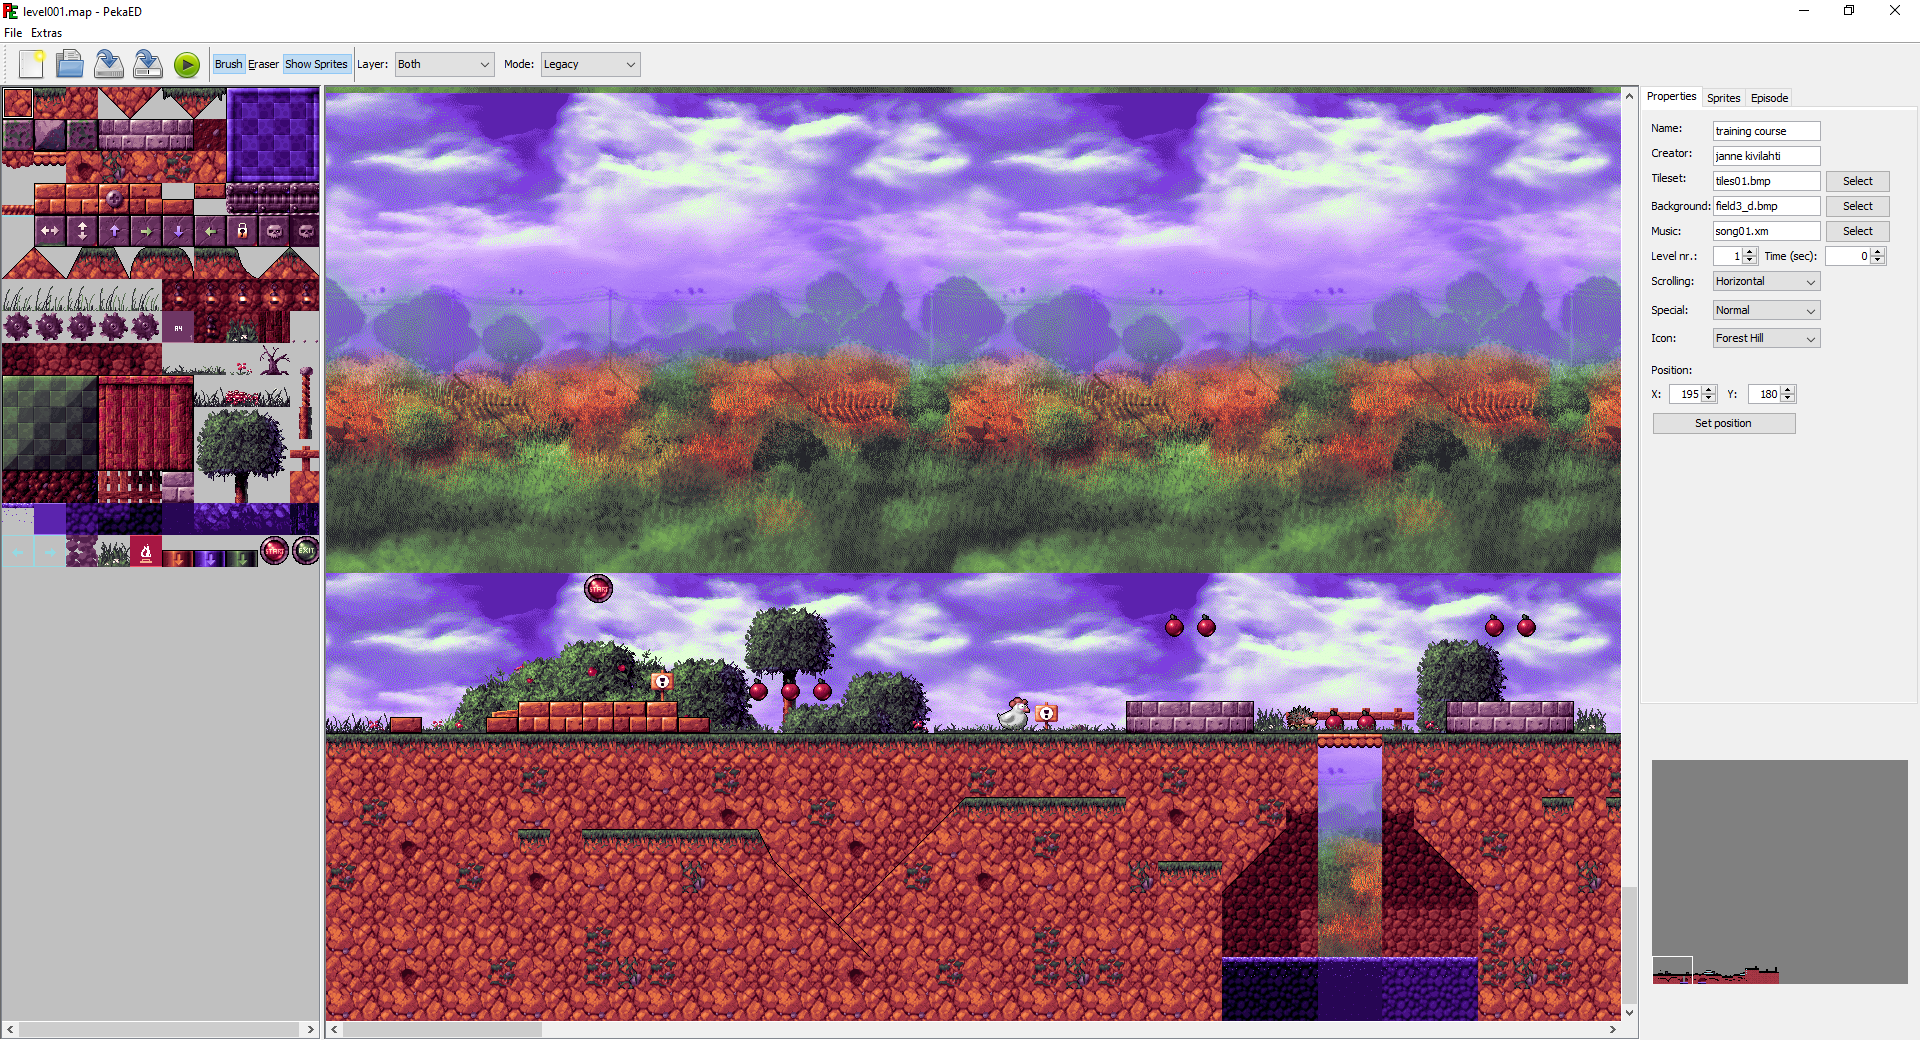
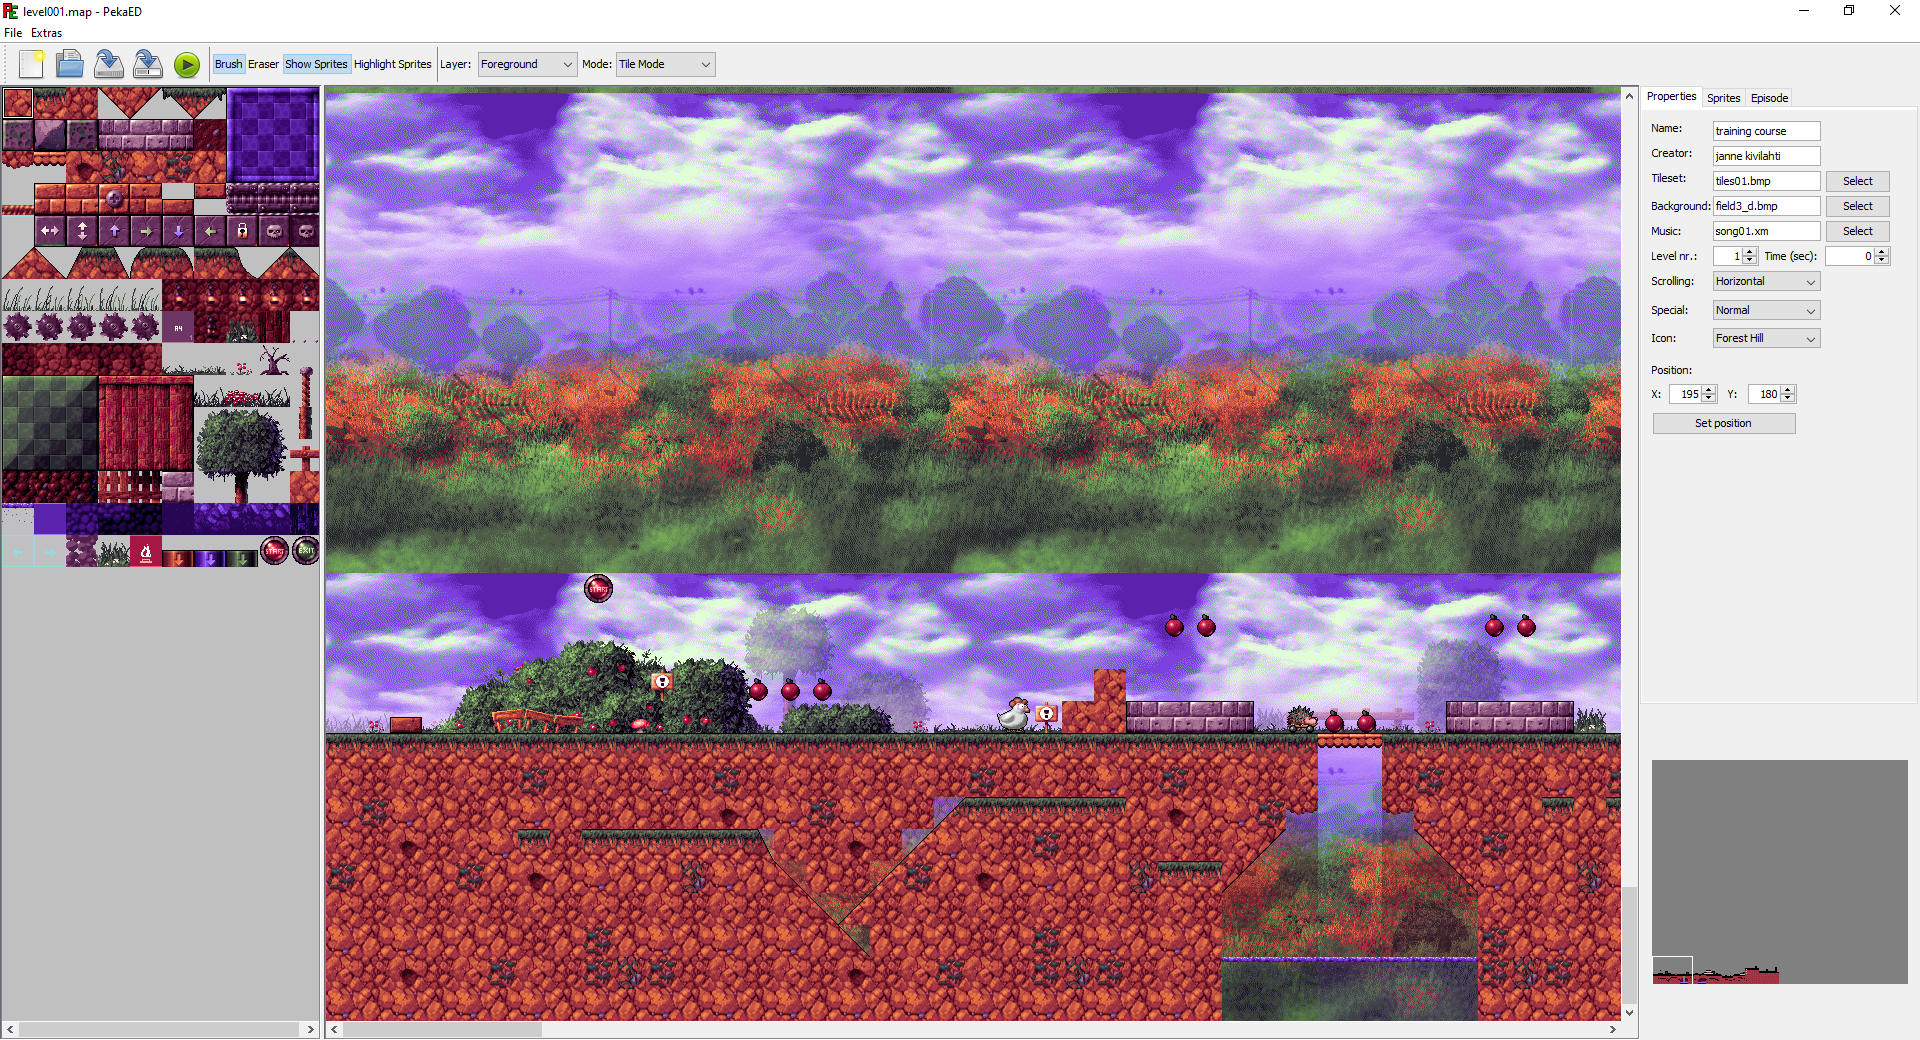
Updated the manual

diff --git a/pekaed/index.html b/pekaed/index.html
@@ -122,8 +122,10 @@
 				<li><a href="#Tools">Tools</a></li>
 				<li><a href="#Layers">Layers</a></li>
 				<li><a href="#Modes">Modes</a></li>
+				<li><a href="#Editing-Modes">Editing modes</a></li>
 				<li><a href="#Episodes">Episodes</a></li>
 				<li><a href="#Testing">Testing your level</a></li>
+				<li><a href="#Highlight-Sprites">Highlight Sprites</a></li>
 			</ol>
 		</div>
 			This editor was created, because the official editor for Pekka Kana 2 doesn't run well on modern operating systems
@@ -177,7 +179,10 @@
 				<td><b>Figure 8:</b> Show or hide the sprites.</td><td><i>Shortcut: S</i></td>
 			</tr>
 			<tr>
-				<td><b>Figure 9:</b> Select the current layer. <span class="seeLink">(See: <a href="#Layers">Layers</a>)</span></td><td><i>Shortcut: 1 - Both</i></td>
+				<td><b>Figure 9:</b> Toggle sprite highlighting.</td><td><i>Shortcut: H</i></td>
+			</tr>
+			<tr>
+				<td><b>Figure 10:</b> Select the current layer. <span class="seeLink">(See: <a href="#Layers">Layers</a>)</span></td><td><i>Shortcut: 1 - Both</i></td>
 			</tr>
 			<tr>
 				<td></td><td><i>Shortcut: 2 - Foreground</i></td>
@@ -186,7 +191,10 @@
 				<td></td><td><i>Shortcut: 3 - Background</i></td>
 			</tr>
 			<tr>
-				<td><b>Figure 10:</b> Select the current mode. <span class="seeLink">(See: <a href="#Modes">Modes</a>)</span></td><td><i>None</i></td>
+				<td><b>Figure 11:</b> Select the current editing mode. <span class="seeLink">(See: <a href="#Editing-Modes">Editing Modes</a>)</span></td><td><i>Shortcut: CTRL + 1 - Tile mode</i></td>
+			</tr>
+			<tr>
+				<td></td><td><i>Shortcut: CTRL + 2 - Sprite mode</i></td>
 			</tr>
 			</table>
 		</p><br />
@@ -309,7 +317,7 @@
 			In the <i>On startup</i> section you can choose what the editor should do on startup.<br />
 			<br />
 			<table style="border: 0; margin: 0 auto;">
-				<tr><td>Load last episode</td><td>Load the last episode that you've worked on. <span class="seeLink">(See: <a href="#Modes">Modes</a>)</span></td></tr>
+				<tr><td>Load last episode</td><td>Load the last episode that you've worked on.</td></tr>
 				<tr><td>Create empty level</td><td>Create an empty level, with the default settings. (Tileset, background, music, etc.)</td></tr>		
 				<tr><td>Enhanced Mode</td><td>Start the editor in Enhanced Mode. <span class="seeLink">(See: <a href="#Modes">Modes</a>)</span></td></tr>				
 				<tr><td>Legacy Mode</td><td>Start the editor in Legacy Mode. <span class="seeLink">(See: <a href="#Modes">Modes</a>)</span></td></tr>				
@@ -355,7 +363,15 @@
 				<tr><td>Enhanced:</td><td>In the enhanced mode you can set the limit yourself. It defaults to 100.</td></tr>
 				<tr><td><br /></td></tr>
 				<tr><td></td><td><b>Note:</b> You have so set the limit to something that your version of the game can support. You can't use a higher limit than that, that's allowed by your version of Pekka Kana 2.</td></tr>
-				<tr><td></td><td><b>Note:</b> PekaED is optimized to work with danilolc's port. Which you can find <a href="https://github.com/danilolc/pk2">here.</a></td></tr>
+				<tr><td></td><td><b>Note:</b> PekaED is optimized to work a specific version. Which you can find <a href="https://github.com/danilolc/pk2">here.</a></td></tr>
+			</table>
+		</p><br />
+		<a name="Editing-Modes"><h2>Editing modes</h2></a><hr />
+		<p>
+			There are two editing modes.<br /><br />
+			<table border="0" style="margin: 0 auto;">
+				<tr><td>Tile Mode</td><td>In this mode you can place, select and delete tiles.</td></tr>
+				<tr><td>Sprite Mode</td><td>In this mode you can place, select and delete sprites.</td></tr>
 			</table>
 		</p><br />
 		<a name="Episodes"><h2>Episodes</h2></a><hr />
@@ -371,6 +387,18 @@
 			If you want to test your level from within PekaED, you have to use <a href="https://github.com/danilolc/pk2">this</a> version.<br /><br />
 			Just set the path in the settings dialog to the location of the game folder. <span class="seeLink">(See: <a href="#Settings-Dialog">Settings dialog</a></span>)<br /><br />
 			Make sure that you save the file in an episode's folder, before testing the level. If you save it somewhere else, the testing won't work.
+		</p><br />
+		<a name="Highlight-Sprites"><h2>Highlight Sprites</h2></a><hr />
+		<p>
+			<img src="rect.png" style="margin: 0 auto;border:1px black solid;"><br />
+			If you have sprite highlighting enabled, PekaED will draw a white rectangle at the position, where it draw the sprite. These rectangles are 32 by 32 pixels and not the width and height of the actual sprite,
+			because the sprites are stored in an array, imagine a grid, where it saves a number for each sprite. For example at position 320, 240 is the Pekka Kana sprite. Let's say that sprites number is '1'.
+			<br />
+			So the number at position 10, 7 would be '1'. 10 and 7, because you have to divide the position by the size of the tiles. In this case 32. This is a pretty vague explanation, because it's pretty technical.<br /><br />
+			These white boxes are drawn to help you to erase sprites. If you want to erase a sprite click on that white box.
+			<br />
+			<br />
+			These rectangles will only show when you're in sprite mode. <span class="seeLink">(See: <a href="#Editing-Modes">Editing Modes</a>)</span>
 		</p>
 	</div><br />
 	<div class="footer">
